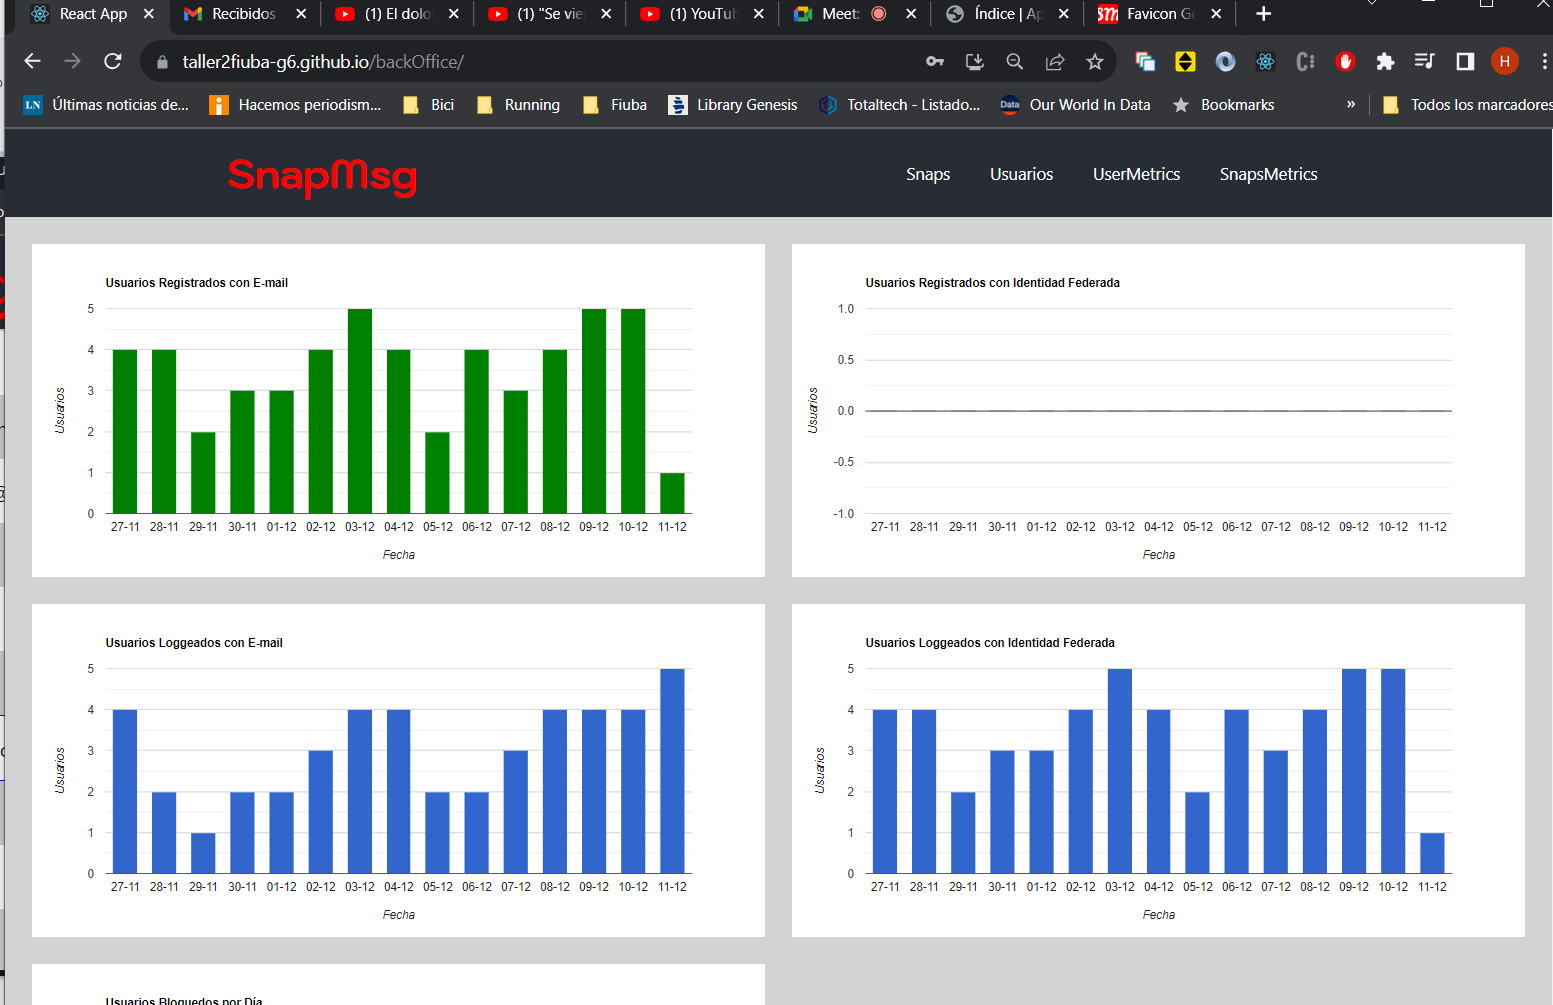
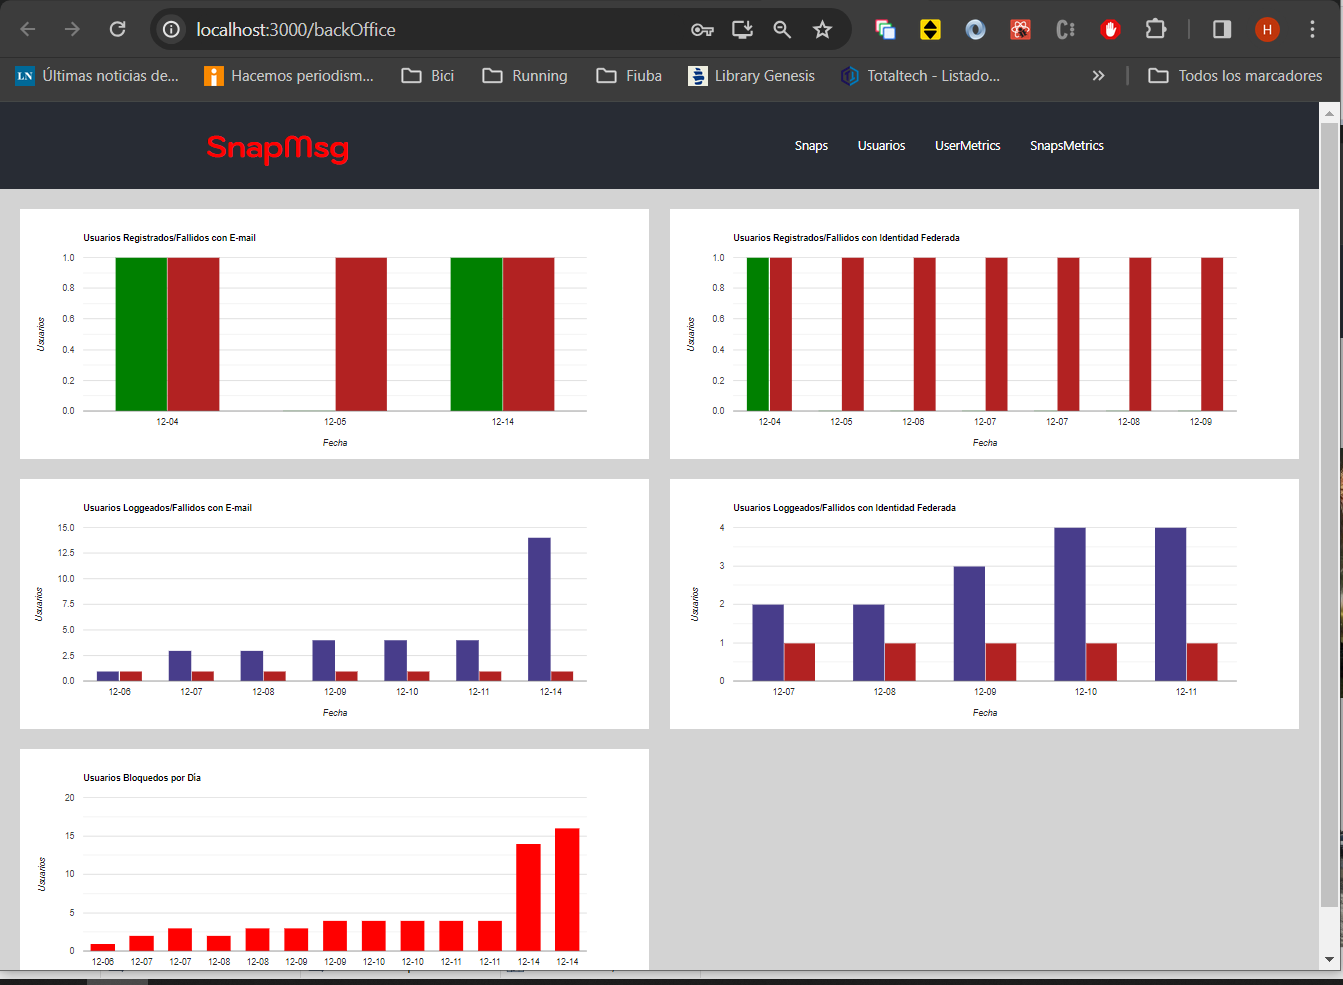
update Readme

diff --git a/README.md b/README.md
@@ -30,9 +30,11 @@ Deployed at [GitHub Pages](https://taller2fiuba-g6.github.io/backOffice/)
     -   Descripción Ingresada por el Usuario.
     -   Locación Ingresada por el Usuario.
     -   Permite bloquearlo.
+    -   Permite Aprovar/Revocar certificaciones Solicitadas.
 -   En la pestaña secundaria se Muestran:
     -   Foto de Pantalla de Usuario.
     -   Foto de Perfil.
+    -   Texto e Imagen aportada para Certificación.
 
 ![Pantalla Administración de Usaurios](images/3.png)
 
@@ -40,9 +42,18 @@ Deployed at [GitHub Pages](https://taller2fiuba-g6.github.io/backOffice/)
 
 -   Informa Métricas sumarizadas por día para:
     -   Usuarios Registrados usando Email/Password.
+    -   Intentos Fallidos de Registro usando Email/Password.
     -   usuarios Registrados mediante "Identidad Federada" (google).
-    -   Logins de Usuarios usando Email/Password.
-    -   Logins de Usuarios usando "Identidad Federada"
+    -   Intentos Fallidos de Registro mediante "Identidad Federada" (google).
+    -   Logins/Fallidos de Usuarios usando Email/Password.
+    -   Logins/Fallidos de Usuarios usando "Identidad Federada"
     -   Usuarios bloquedos por un Administrador durante el Día.
 
 ![Pantalla Métricas de Usuario](images/4.png)
+
+Metrics de Contenido
+
+-   Métricas sumarizadas por día de SnapMsgs publicados
+-   Historico de Hashtagags.
+
+![Pantalla Métricas de Usuario](images/5.png)
